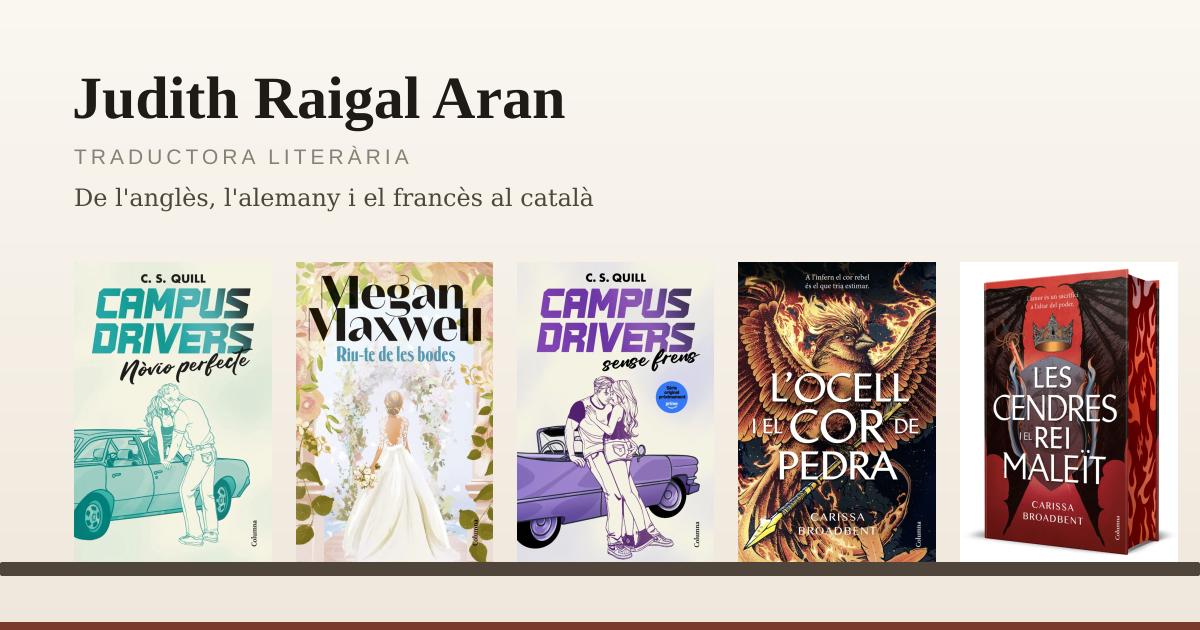
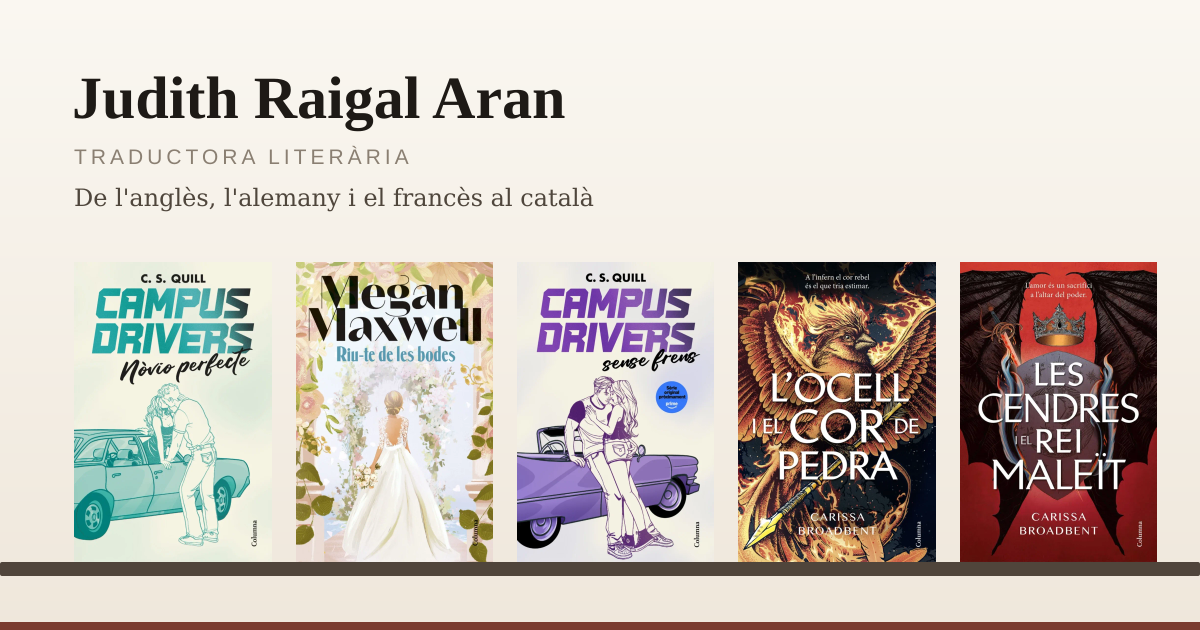
Flat covers for the two Broadbent titles, and spines you can read
The publisher's CDN lists "La serp i les ales de la nit" and "Les cendres i
el rei maleït" as angled 3D mock-ups with sprayed edges, which is what the
shelf has been showing. The flat front-cover artwork now lives in
assets/covers/ and a cover-sources.json value that isn't an http(s) URL is
read from disk (confined to the repo) instead of fetched.

The spines were the bigger problem: too dark to tell there was type on them
at all. Three things were stacking up.

A standard material multiplies its map by its colour, and the generated
spine texture was being applied over a material still tinted with the spine
colour — so the ground was squared and the pale title was dragged down to
roughly the ground's own value. On a near-black spine that left about 1.5:1.
The material is white whenever a map is in play now.

The palette itself came from sharp's channel means, and the average of every
pixel is not a colour anyone sees: a vivid blue cover with white type and
black linework averages to grey-teal, a red one to greyish brown. Covers are
now sampled small, stripped of the pixels too light or dark to carry hue, and
bucketed by hue with saturated pixels weighted above washed-out ones, so the
heaviest bucket returns the ink the cover is printed in. That colour is
mapped into a mid-lightness band rather than scaled towards black, and its
saturation lifted — except on genuinely neutral covers, where a lift would
[…]

Changed region(s): [[0.8017, 0.3921, 0.9867, 0.9048]]

diff --git a/src/lib/shelf/textures.ts b/src/lib/shelf/textures.ts
@@ -42,6 +42,17 @@ export function mixHexColor(a: string, b: string, t: number): string {
 }
 
 /**
+ * The other end of the ink the palette chose. `textColor` is always one of the
+ * pipeline's two foregrounds — near-white or near-black — so its opposite is
+ * the direction to push a ground in when it needs to move away from the type.
+ */
+function oppositeInk(textColor: string): string {
+  const hsl = { h: 0, s: 0, l: 0 };
+  new THREE.Color(textColor).getHSL(hsl);
+  return hsl.l > 0.5 ? '#12100e' : '#fbf8f3';
+}
+
+/**
  * Restrained, editorial spine artwork: a flat ground colour, the title set
  * vertically (rotated once, so it never mirrors), and the publisher name in
  * small caps near the foot. Used whenever `book.spineUrl` is absent or fails
@@ -54,10 +65,12 @@ export function createSpineTexture(book: ShelfBook, width = 256, height = 1024):
   const ctx = canvas.getContext('2d');
   if (!ctx) return finalizeCanvasTexture(new THREE.CanvasTexture(canvas));
 
-  // Dominant cover colours are often near-black, and a wall of them renders as
-  // a row of dead bricks. Lifting the ground a few percent towards the spine's
-  // own foreground keeps very dark cloth reading as cloth.
-  ctx.fillStyle = mixHexColor(book.spineColor, book.textColor, 0.07);
+  // Ground, pushed a few percent *away* from the type rather than towards it.
+  // The lift used to run the other way, to keep near-black spine colours from
+  // reading as dead bricks — but that darkness is now dealt with where it comes
+  // from, in the palette the cover pipeline derives, and here it only ate into
+  // the contrast the title needs on a strip this narrow.
+  ctx.fillStyle = mixHexColor(book.spineColor, oppositeInk(book.textColor), 0.08);
   ctx.fillRect(0, 0, width, height);
 
   // Faint cloth-like vertical grain so the spine isn't a dead flat swatch.
@@ -75,11 +88,13 @@ export function createSpineTexture(book: ShelfBook, width = 256, height = 1024):
 
   // A shallow curve of light down the spine — real cloth over boards is never
   // evenly lit, and this is what stops a rack of them looking like a barcode.
+  // Kept gentle: the two hinge shadows are what a narrow spine can least
+  // afford, since they fall exactly where wrapped title lines reach.
   const round = ctx.createLinearGradient(0, 0, width, 0);
-  round.addColorStop(0, 'rgba(0,0,0,0.3)');
-  round.addColorStop(0.32, 'rgba(255,255,255,0.09)');
-  round.addColorStop(0.72, 'rgba(255,255,255,0.03)');
-  round.addColorStop(1, 'rgba(0,0,0,0.26)');
+  round.addColorStop(0, 'rgba(0,0,0,0.2)');
+  round.addColorStop(0.32, 'rgba(255,255,255,0.12)');
+  round.addColorStop(0.72, 'rgba(255,255,255,0.05)');
+  round.addColorStop(1, 'rgba(0,0,0,0.17)');
   ctx.fillStyle = round;
   ctx.fillRect(0, 0, width, height);
 
@@ -104,9 +119,15 @@ export function createSpineTexture(book: ShelfBook, width = 256, height = 1024):
   ctx.fillStyle = book.textColor;
   ctx.textAlign = 'center';
   ctx.textBaseline = 'middle';
-  const titleSize = Math.max(22, Math.round(width * 0.11));
-  ctx.font = `${titleSize}px Georgia, "Times New Roman", serif`;
-  drawTracked(ctx, book.title.toUpperCase(), 0, 0, titleSize * 0.06);
+  const titleSize = Math.max(26, Math.round(width * 0.125));
+  ctx.font = `600 ${titleSize}px Georgia, "Times New Roman", serif`;
+  // A spine is only a few dozen screen pixels wide once it's in perspective,
+  // so the type needs help surviving the downsample: a halo in the opposite
+  // ink separates every stroke from the ground even where the shading is
+  // closest to the type's own value.
+  ctx.shadowColor = oppositeInk(book.textColor);
+  ctx.shadowBlur = titleSize * 0.5;
+  drawTracked(ctx, book.title.toUpperCase(), 0, 0, titleSize * 0.06, titleSize);
   ctx.restore();
 
   // Publisher, small, near the foot of the spine.
@@ -117,16 +138,27 @@ export function createSpineTexture(book: ShelfBook, width = 256, height = 1024):
   ctx.globalAlpha = 0.85;
   ctx.textAlign = 'center';
   ctx.textBaseline = 'middle';
-  const pubSize = Math.max(14, Math.round(width * 0.052));
+  const pubSize = Math.max(14, Math.round(width * 0.055));
   ctx.font = `${pubSize}px Georgia, "Times New Roman", serif`;
-  drawTracked(ctx, book.publisher.toUpperCase(), 0, 0, pubSize * 0.1);
+  drawTracked(ctx, book.publisher.toUpperCase(), 0, 0, pubSize * 0.1, pubSize);
   ctx.restore();
 
   return finalizeCanvasTexture(new THREE.CanvasTexture(canvas));
 }
 
-/** Draws text centered at (x, y) with manual letter-spacing, wrapping if too wide. */
-function drawTracked(ctx: CanvasRenderingContext2D, text: string, x: number, y: number, tracking: number): void {
+/**
+ * Draws text centered at (x, y) with manual letter-spacing, wrapping if too
+ * wide. `fontSize` is passed in rather than read back off `ctx.font`, which
+ * cannot be parsed for it once the shorthand carries a weight.
+ */
+function drawTracked(
+  ctx: CanvasRenderingContext2D,
+  text: string,
+  x: number,
+  y: number,
+  tracking: number,
+  fontSize: number,
+): void {
   const maxWidth = ctx.canvas.height * 0.82;
   const measure = (s: string) => {
     let w = 0;
@@ -147,7 +179,7 @@ function drawTracked(ctx: CanvasRenderingContext2D, text: string, x: number, y: 
   }
   if (current) lines.push(current);
   const cappedLines = lines.slice(0, 3);
-  const lineHeight = parseInt(ctx.font, 10) * 1.25;
+  const lineHeight = fontSize * 1.25;
   const startY = y - ((cappedLines.length - 1) * lineHeight) / 2;
 
   cappedLines.forEach((line, lineIndex) => {

diff --git a/src/lib/shelf/shelf.ts b/src/lib/shelf/shelf.ts
@@ -485,8 +485,14 @@ export const mountShelf: MountShelf = async (container, options) => {
       metalness: 0.02,
       transparent: true,
     });
+    // White whenever a map is in play: a standard material multiplies its map
+    // by `color`, so tinting a spine texture that already paints the spine
+    // colour squares the ground and drags the title down with it — which is
+    // how every generated spine ended up near-black with type you couldn't
+    // make out. The flat colour is only the ground for the moment before a
+    // `spineUrl` texture arrives.
     const spineMaterial = new THREE.MeshStandardMaterial({
-      color: book.spineUrl ? 0xffffff : book.spineColor,
+      color: book.spineUrl ? book.spineColor : 0xffffff,
       roughness: 0.88,
       metalness: 0.02,
       transparent: true,

diff --git a/src/data/books.ts b/src/data/books.ts
@@ -34,7 +34,7 @@ interface CoverMeta {
   textColor: string;
   width: number;
   height: number;
-  source: 'openlibrary' | 'googlebooks' | 'url' | 'generated';
+  source: 'openlibrary' | 'googlebooks' | 'url' | 'local' | 'generated';
 }
 
 /** Neutral tones used when the cover pipeline has not run yet. */

diff --git a/scripts/README.md b/scripts/README.md
@@ -52,7 +52,14 @@ An array of book entries, generated by `build-covers-input.mjs`:
 | `author`     | no       | shown (small caps) on the generated fallback cover                 |
 | `publisher`  | no       | shown at the foot of the generated fallback cover                  |
 | `isbn`       | no       | ISBN-13 (or 10), used to look up cover art                         |
-| `sourceUrl`  | no       | explicit image URL; tried before any ISBN lookup                   |
+| `sourceUrl`  | no       | explicit image URL, or a repo-relative path; tried before any ISBN lookup |
+
+A `sourceUrl` that isn't `http(s)` is read from disk, resolved against the
+repository root and confined to it. That's the escape hatch for covers the
+publisher's CDN doesn't serve usably — the two Carissa Broadbent titles are
+still listed there as angled 3D mock-ups with sprayed edges, so their flat
+front-cover artwork is committed under `assets/covers/<id>.jpg` and referenced
+as `"assets/covers/<id>.jpg"` in `cover-sources.json`.
 
 ## What it does, per book
 
@@ -60,7 +67,8 @@ An array of book entries, generated by `build-covers-input.mjs`:
    skip straight to re-reading it for metadata (logged as `cached`).
 2. Otherwise, resolve a source image, trying in order and stopping at the
    first success:
-   - the explicit `sourceUrl`, if present;
+   - the explicit `sourceUrl`, if present — fetched over HTTP, or read from
+     disk when it's a repo-relative path;
    - Open Library: `https://covers.openlibrary.org/b/isbn/<isbn>-L.jpg`.
      Open Library returns a tiny placeholder image (commonly ~43 bytes,
      1×1px) when it has no cover for that ISBN, so any response under
@@ -82,11 +90,23 @@ An array of book entries, generated by `build-covers-input.mjs`:
    (auto-shrinking the font size for long titles), the author above it in
    letterspaced small caps, and the publisher at the foot. All text is
    XML-escaped, since real titles contain `&`, quotes and accents.
-5. Either way, the final raster is analysed with `sharp`'s `.stats()` to get
-   a dominant colour, which is darkened/desaturated slightly so it reads as
-   a book spine rather than a washed-out photo average. A readable
-   foreground (`#faf7f2` or `#1a1613`) is picked via WCAG contrast against
-   that spine colour.
+5. Either way, the final raster is colour-sampled for the spine palette
+   (`scripts/lib/dominant-color.mjs`). Not with `sharp`'s `.stats()` channel
+   means — an average of every pixel is not a colour anyone sees, and it
+   turned vivid covers into mud (a blue cover with white type and black
+   linework averages to grey-teal). Instead the raster is sampled at 120px
+   wide, pixels too light or too dark to carry hue are discarded, and the
+   rest are bucketed by hue in 15° steps; the heaviest bucket wins, weighting
+   saturated pixels above washed-out ones so a small area of true cover ink
+   outvotes a large area of shading. That colour is then mapped into a
+   mid-lightness band — dark enough to carry pale type, light enough that the
+   spine reads as the book's colour instead of a black brick — with
+   saturation lifted, except on genuinely neutral covers, where lifting it
+   would invent a hue the artwork doesn't have. A readable foreground
+   (`#faf7f2` or `#1a1613`) is picked via WCAG contrast against the result,
+   and the ground is nudged along the lightness axis until that pairing
+   clears 4.5:1, since the same colour also backs the "open this book"
+   button.
 6. All of the above is collected into `src/data/cover-meta.json`
    (`{ id, spineColor, textColor, width, height, source }`, pretty-printed,
    sorted by `id`) so the shelf can theme itself without re-touching images,
@@ -97,8 +117,8 @@ An array of book entries, generated by `build-covers-input.mjs`:
    missing cover is never treated as a failure, since the fallback handles
    it.
 
-`source` in the metadata is one of `"url"`, `"openlibrary"`, `"googlebooks"`,
-or `"generated"`.
+`source` in the metadata is one of `"url"`, `"local"`, `"openlibrary"`,
+`"googlebooks"`, or `"generated"`.
 
 ## Network / proxy notes
 
